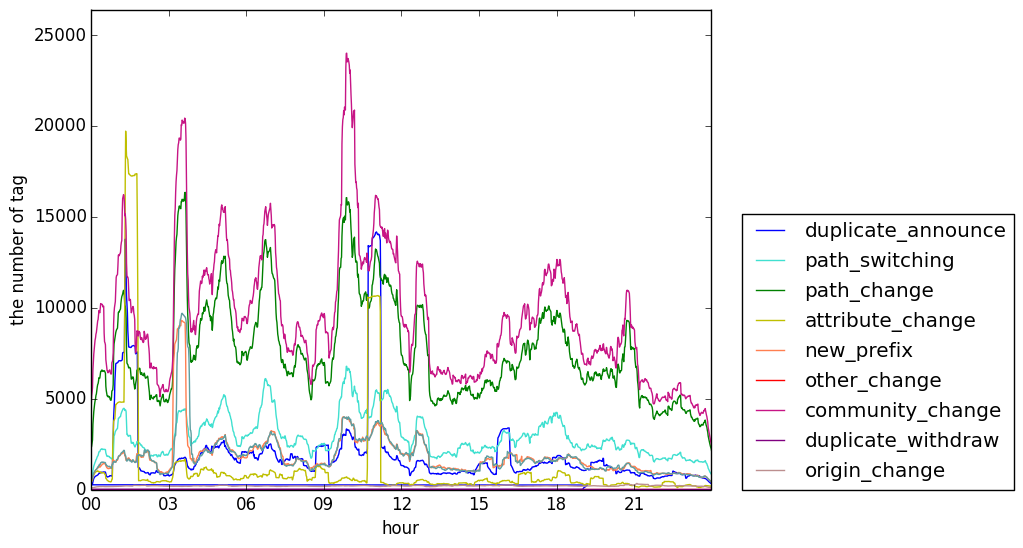
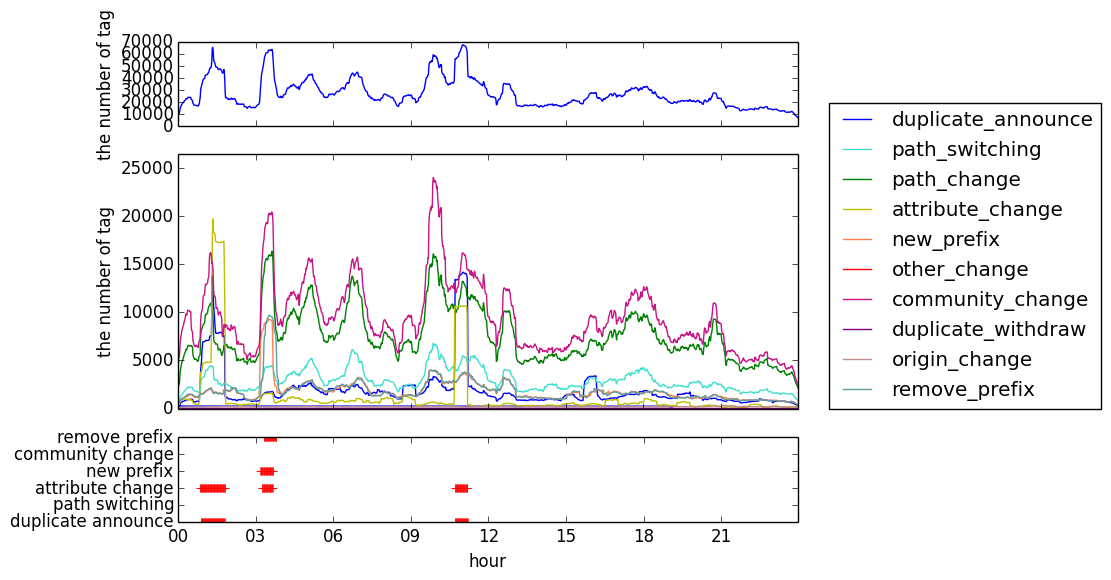
three graphs(the number of total messages, the number of tags, alerts) in one figures

Changed region(s): [[0.0, 0.0, 1.0, 0.9927], [0.7576, 0.1551, 1.0, 0.2172]]

diff --git a/incidentAnalysis/draw.py b/incidentAnalysis/draw.py
@@ -1,5 +1,4 @@
 import matplotlib
-import sys
 matplotlib.use("AGG")
 from matplotlib import pyplot as plt
 import numpy as np
@@ -7,9 +6,28 @@ import argparse
 import pickle
 import matplotlib.ticker as ticker
 import matplotlib.dates as mdates
+from matplotlib import gridspec
 from datetime import datetime as dt
 from datetime import timedelta as td
-import csv
+
+def mad(arr):
+    arr = np.ma.array(arr).compressed() # should be faster to not use masked arrays.
+    med = np.median(arr)
+    return np.median(np.abs(arr - med))
+
+def __roleFormatter(x, pos):
+    if x == 0:
+        return "duplicate announce"
+    elif x == 1:
+        return "path switching"
+    elif x == 2:
+        return "attribute change"
+    elif x == 3:
+        return "new prefix"
+    elif x == 4:
+        return "community change"
+    elif x == 5:
+        return "remove prefix"
 
 
 parser = argparse.ArgumentParser()
@@ -27,6 +45,7 @@ pkl = args.pickle_file
 with open(pkl, "rb") as f:
     data = pickle.load(f)   ## data[tagName][time] = [value]
 
+
 alert_flags = dict()
 sorted_data = dict()
 for tag in data.items():
@@ -37,19 +56,15 @@ info = dict()
 for sdata in sorted_data.items():
     # info = {tag_name : [mean, std, threshold]
     info[sdata[0]] = list()
-    info[sdata[0]].append(np.mean(sdata[1]))
-    info[sdata[0]].append(np.std(sdata[1]))
-    info[sdata[0]].append(info[sdata[0]][0] + info[sdata[0]][1] * 2)
+    info[sdata[0]].append(np.median(sdata[1]))
+    info[sdata[0]].append(mad(sdata[1]))
+    info[sdata[0]].append(info[sdata[0]][0] + info[sdata[0]][1] * 5 * 1.4826)
     print sdata[0] + ": " + str(info[sdata[0]])
 
+print ""
 # figure format
 fig = plt.figure()
-ax = fig.add_subplot(1,1,1)
-daysFmt = mdates.DateFormatter("%H")
-ax.xaxis.set_major_formatter(daysFmt)
-ax.set_xlabel("hour")
-ax.set_ylabel("the number of tag")
-tagColors = ['blue', 'turquoise', 'g','greenyellow', 'y', 'gold', 'coral', 'r', 'mediumvioletred', 'purple','indigo', 'rosybrown', 'cadetblue','k']
+gs = gridspec.GridSpec(3,1, height_ratios=[1,3,1])
 
 # plot
 movingValue = 30
@@ -59,25 +74,56 @@ maximumY2 = 0
 scatter = False
 startTime = dt.strptime(date + "0000", "%Y%m%d%H%M")
 endTime = dt.strptime(date + "2359", "%Y%m%d%H%M")
+
+tag_array = list()
+for tag in data.items():
+    timeStamp = startTime
+    x = list()
+    y = list()
+    for item in sorted(tag[1].items(), key=lambda x: x[0]):
+        x.append(timeStamp)
+        if timeStamp != item[0]:
+            y.append(0)
+        else:
+            y.append(item[1])
+        timeStamp += td(minutes=1)
+    y = np.convolve(y, ones, "same").tolist()
+    tag_array.append(y)
+tag_np_array = np.array(tag_array)
+total_messages = np.sum(tag_np_array, axis=0)
+ax1 = fig.add_subplot(gs[0])
+ax1.set_xticklabels([])
+ax1.set_ylabel("the number of tag")
+ax1.plot(x, total_messages)
+
+ax2 = fig.add_subplot(gs[1])
+ax2.set_xticklabels([])
+ax2.set_ylabel("the number of tag")
+tagColors = ['blue', 'turquoise', 'g','greenyellow', 'y', 'gold', 'coral', 'r', 'mediumvioletred', 'purple','indigo', 'rosybrown', 'cadetblue','k']
+
+ax3 = fig.add_subplot(gs[2])
+daysFmt = mdates.DateFormatter("%H")
+ax3.xaxis.set_major_formatter(daysFmt)
+ax3.set_xlabel("hour")
 timeStamp = startTime
 for (tag,C) in zip(data.items(), tagColors):
-    if tag[0] == "prepending_change":
-        continue
     if tag[0] == "prepending_add":
         continue
     if tag[0] == "prepending_remove":
         continue
+    if tag[0] == "prepending_change":
+        continue
     x = list()
     y = list()
+    alert = list()
     while timeStamp < tag[1].keys()[0]:
         x.append(timeStamp)
         y.append(0)
         timeStamp += td(minutes=1)
-    lgnd = plt.legend(bbox_to_anchor=(1.05, 0), loc='lower left', borderaxespad=0)
     for item in sorted(tag[1].items(), key=lambda x: x[0]):
-        x.append(item[0])
         y.append(item[1])
-
+        x.append(item[0])
+        timeStamp += td(minutes=1)
 
     if len(x) == 0 and len(y) == 0:
         continue
@@ -91,23 +137,49 @@ for (tag,C) in zip(data.items(), tagColors):
         if alert_flags[tag[0]] == 0:
             if value > info[tag[0]][2]:
                 print "alert! " + str(ts) + " " + tag[0] + " value: " + str(value) + " thr:" + str(info[tag[0]][2])
+                alert.append(ts)
                 alert_flags[tag[0]] = 1
         else:
             if value <= info[tag[0]][2]:
+                print "fixed! " + str(ts) + " " + tag[0]
                 alert_flags[tag[0]] = 0
+            else:
+                alert.append(ts)
+    
     if scatter == True:
-        ax.scatter(x,y, s=20, c=C, marker='+', label=tag[0])
-        ax.plot(x,y2,c=C, alpha=0.3 ,linewidth=1)
+        ax2.scatter(x,y, s=20, c=C, marker='+', label=tag[0])
+        ax2.plot(x,y2,c=C, alpha=0.3 ,linewidth=1)
     else:
-        ax.plot(x,y2,c=C, linewidth=1, label = tag[0])
+        ax2.plot(x,y2,c=C, linewidth=1, label = tag[0])
     # log
+    lgnd = ax2.legend(bbox_to_anchor=(1.05, 0), loc='lower left', borderaxespad=0)
     if args.log == True:
-        ax.set_yscale("log")
-    # /log
-ax.set_xlim(startTime, endTime)
+        ax2.set_yscale("log")
+
+    if len(alert) >= 1:
+        if tag[0] == "duplicate_announce":
+            y = [0] * len(alert)
+        elif tag[0] == "path_switching":
+            y = [1] * len(alert)
+        elif tag[0] == "attribute_change":
+            y = [2] * len(alert)
+        elif tag[0] == "new_prefix":
+            y = [3] * len(alert)
+        elif tag[0] == "community_change":
+            y = [4] * len(alert)
+        elif tag[0] == "remove_prefix":
+            y = [5] * len(alert)
+        else:
+            continue
+        print len(alert)
+        print len(y)
+        ax3.plot(alert, y, "+" , c="r")
+        
+ax3.set_xlim(startTime, endTime)
+ax3.yaxis.set_major_formatter(ticker.FuncFormatter(__roleFormatter))
 if args.log == True:
-    ax.set_ylim(1, (maximumY*20/10))
+    ax2.set_ylim(1, (maximumY*20/10))
 else:
-    ax.set_ylim(0, (maximumY2*11/10))
+    ax2.set_ylim(0, (maximumY2*11/10))
 
 plt.savefig(args.outfile, bbox_extra_artists=(lgnd,), bbox_inches='tight')
